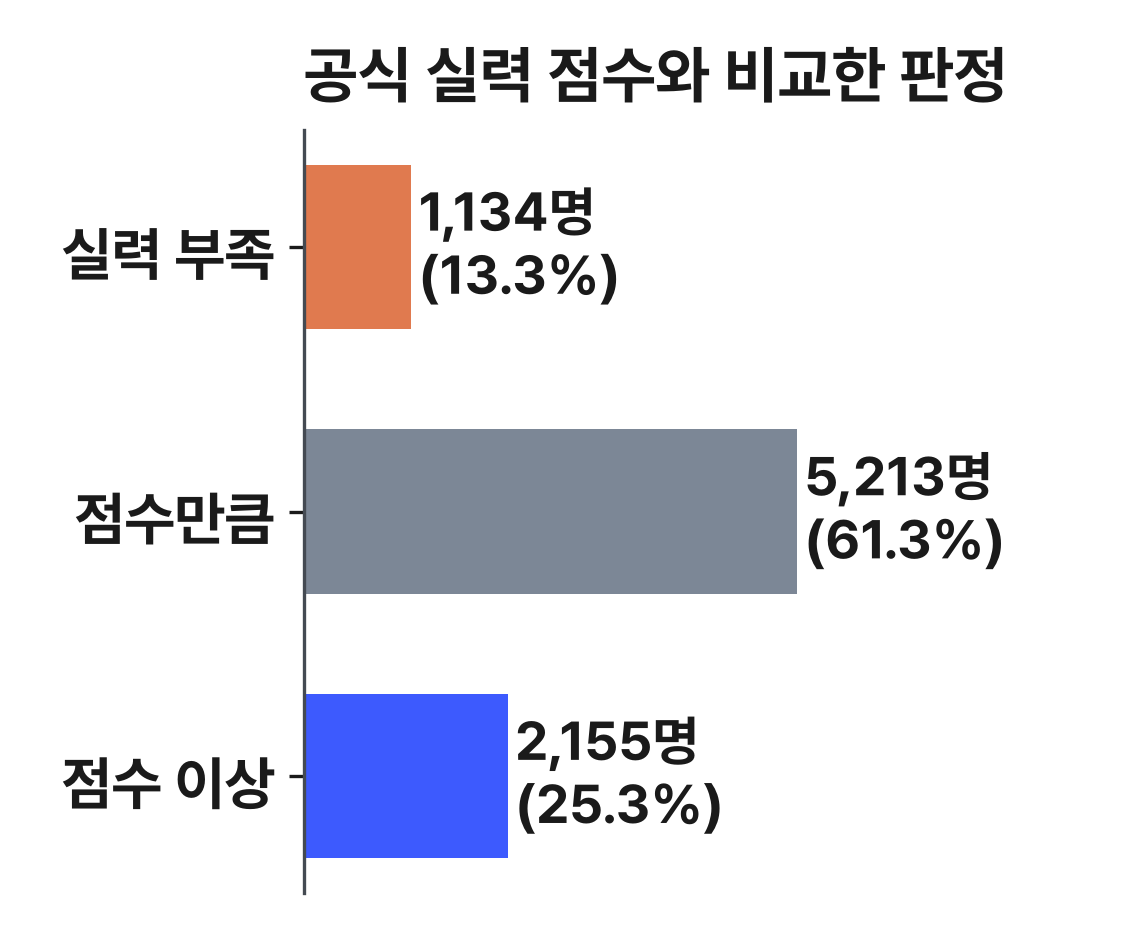
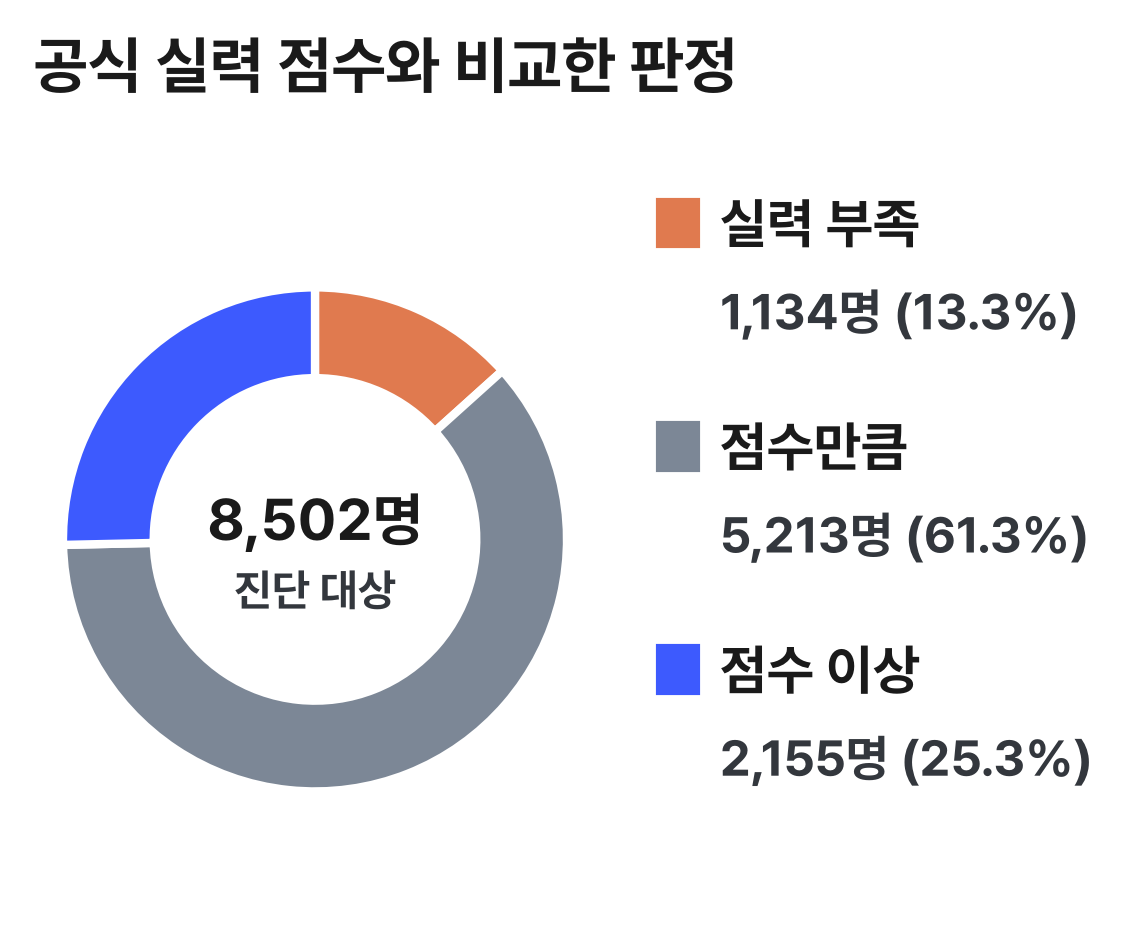
그래프 종류 다양화: 전체 판정은 도넛, 예측 정확도는 화살표 그래프
- fig2: 합이 8,502명인 '전체 중 비율'이라 가로 막대 → 도넛 (가운데 진단 대상 수)
- fig4: '이전 → 이후'가 핵심이라 세로 막대 → 점·화살표 (세로축 0.68부터 시작하던 문제도 없어짐)
- README 설명 수정

diff --git a/make_figures.py b/make_figures.py
@@ -3,7 +3,7 @@
 그림 크기(인치)를 슬라이드에 넣는 크기와 같게 맞춰, 글자 크기(pt)가 슬라이드에서도 그대로 보이게 함"""
 import sys, os, glob
 from pathlib import Path
-import matplotlib, matplotlib.ticker
+import matplotlib, matplotlib.ticker, matplotlib.patches
 matplotlib.use("Agg")
 import matplotlib.pyplot as plt
 from matplotlib import font_manager
@@ -57,16 +57,20 @@ fig.add_artist(con)
 fig.text(0.50, 0.63, "펼쳐 보면", ha="center", fontsize=14, color=ORANGE)
 fig.savefig(OUT / "fig1_문제제기_정답률과_공식실력점수.png"); plt.close(fig)
 
-# ---------- 그림 2 (03 분석 결과): 전체 판정 — 공식 실력 점수와 비교
+# ---------- 그림 2 (03 분석 결과): 전체 판정 — 공식 실력 점수와 비교 (합이 8,502명인 '전체 중 비율'이라 도넛)
 J = D["전체 판정"].value_counts()
 order = [("실력 부족", "실력 부족", ORANGE), ("레이팅 수준", "점수만큼", MID), ("레이팅 이상", "점수 이상", BLUE)]
 vals = [int(J[k]) for k, _, _ in order]; assert sum(vals) == len(D); check["그림2 합"] = sum(vals)
-fig, ax = plt.subplots(figsize=(3.75, 3.1))
-ax.barh([n for _, n, _ in order][::-1], vals[::-1], color=[c for *_, c in order][::-1], height=0.62)
-for i, v in enumerate(vals[::-1]): ax.text(v + 80, i, f"{v:,}명\n({v / sum(vals):.1%})", va="center", fontsize=13, linespacing=1.0)
-ax.set_xlim(0, max(vals) * 1.62); ax.set_xticks([]); ax.spines["bottom"].set_visible(False); ax.tick_params(axis="y", labelsize=14)
-ax.set_title("공식 실력 점수와 비교한 판정", fontsize=15, loc="left", pad=8)
-fig.subplots_adjust(left=0.27, right=0.98, top=0.86, bottom=0.04); fig.savefig(OUT / "fig2_전체판정.png"); plt.close(fig)
+fig = plt.figure(figsize=(3.75, 3.1))
+ax = fig.add_axes([0.0, 0.02, 0.56, 0.80])
+ax.pie(vals, colors=[c for *_, c in order], startangle=90, counterclock=False, wedgeprops=dict(width=0.36, edgecolor="white", linewidth=2))
+ax.text(0, 0.08, f"{sum(vals):,}명", ha="center", va="center", fontsize=14); ax.text(0, -0.2, "진단 대상", ha="center", va="center", fontsize=10.5, color=SUB)
+for i, ((_, n, c), v) in enumerate(zip(order, vals)):
+    y = 0.70 - i * 0.24
+    fig.patches.append(matplotlib.patches.Rectangle((0.585, y + 0.035), 0.035, 0.05, color=c, transform=fig.transFigure, figure=fig))
+    fig.text(0.64, y + 0.06, n, fontsize=13, va="center"); fig.text(0.64, y - 0.035, f"{v:,}명 ({v / sum(vals):.1%})", fontsize=12, va="center", color=SUB)
+fig.text(0.03, 0.93, "공식 실력 점수와 비교한 판정", fontsize=15, fontweight="bold", va="center")
+fig.savefig(OUT / "fig2_전체판정.png"); plt.close(fig)
 
 # ---------- 그림 3 (03 분석 결과): 고른 약한 분야가 다음 기간에도 약했던 비율
 v2 = pd.read_csv(o / "step6_①같은개수.csv", index_col=0)["C에서도 기대 이하(적중률)"] * 100
@@ -78,19 +82,24 @@ ax.set_title("약한 분야가 다음 기간에도 약함", fontsize=15, loc="le
 fig.subplots_adjust(left=0.03, right=0.98, top=0.86, bottom=0.2); fig.savefig(OUT / "fig3_약한분야_적중률.png"); plt.close(fig)
 check["그림3"] = [round(x, 1) for x in v2.values]
 
-# ---------- 그림 4 (03 분석 결과): 다음 기간 정답 예측 정확도(AUC)
+# ---------- 그림 4 (03 분석 결과): 다음 기간 정답 예측 정확도(AUC) — '이전 → 이후'가 핵심이라 점 두 개를 화살표로 이음
 v3 = pd.read_csv(o / "step6_②예측.csv", index_col=0)["AUC"]; v4 = pd.read_csv(o / "step6_③레이팅.csv", index_col=0)["AUC"]
-bars = [("공식 실력\n점수", v4.iloc[1], MID), ("평소 실력\n점수", v4.iloc[0], NAVY), ("공식\n점수만", v3.iloc[0], MID), ("+ 진단\n결과", v3.iloc[1], NAVY)]
+rows = [("실력 점수 바꾸기", "공식 실력 점수", v4.iloc[1], "평소 실력 점수", v4.iloc[0]),
+        ("진단 결과 더하기", "공식 점수만", v3.iloc[0], "+ 진단 결과", v3.iloc[1])]
 fig, ax = plt.subplots(figsize=(3.75, 3.1))
-xs = [0, 1, 2.5, 3.5]
-ax.bar(xs, [b[1] for b in bars], color=[b[2] for b in bars], width=0.8)
-for x, b in zip(xs, bars): ax.text(x, b[1] + 0.0015, f"{b[1]:.3f}", ha="center", fontsize=13)
-ax.set_xticks(xs, [b[0] for b in bars], fontsize=12); ax.set_ylim(0.68, 0.762); ax.set_yticks([])
+for i, (ttl, l0, a0, l1, a1) in enumerate(rows):
+    y = 1 - i
+    ax.annotate("", xy=(a1, y), xytext=(a0, y), arrowprops=dict(arrowstyle="-|>,head_length=0.7,head_width=0.4", color=NAVY, lw=2.6, shrinkA=7, shrinkB=7))
+    ax.scatter([a0], [y], s=110, color=MID, zorder=3); ax.scatter([a1], [y], s=130, color=NAVY, zorder=3)
+    ax.text(a0 - 0.0018, y, f"{l0}\n{a0:.3f}", ha="right", va="center", fontsize=11.5, color=SUB, linespacing=1.15)
+    ax.text(a1 + 0.0018, y, f"{l1}\n{a1:.3f}", ha="left", va="center", fontsize=11.5, color=NAVY, linespacing=1.15)
+    ax.text(0.697, y + 0.36, ttl, fontsize=12.5, va="bottom")
+ax.set_xlim(0.695, 0.768); ax.set_ylim(-0.45, 1.62); ax.set_yticks([])
+ax.set_xticks([0.70, 0.72, 0.74, 0.76]); ax.tick_params(axis="x", labelsize=11)
 ax.spines["left"].set_visible(False)
-ax.text(0.0, 0.97, "세로축 0.68부터", transform=ax.transAxes, fontsize=10.5, color=SUB, va="top")
 ax.set_title("다음 기간 정답 예측 정확도(AUC)", fontsize=15, loc="left", pad=8)
-fig.subplots_adjust(left=0.03, right=0.98, top=0.86, bottom=0.2); fig.savefig(OUT / "fig4_예측정확도_AUC.png"); plt.close(fig)
-check["그림4"] = [round(b[1], 3) for b in bars]
+fig.subplots_adjust(left=0.03, right=0.97, top=0.86, bottom=0.11); fig.savefig(OUT / "fig4_예측정확도_AUC.png"); plt.close(fig)
+check["그림4"] = [round(r[2], 3) for r in rows] + [round(r[4], 3) for r in rows]
 
 # ---------- 그림 5 (03 분석 결과): K-means 학습 유형 — 지표 9개를 '유형이 가장 잘 나뉘는 2개 축'(선형 판별 분석, LDA)으로 요약해
 #            학습자마다 점 1개, 유형마다 도형을 다르게. (PCA 2개 축은 정보의 48%만 담고 CE 비율이 거의 안 실려 문법형이 흩어져 보였음)

diff --git a/README.md b/README.md
@@ -25,9 +25,9 @@ algofit_figures/
 | 그림 | 내용 | 확인한 숫자 |
 |---|---|---|
 | fig1 | 정답률 구간별 학습자 수(왼쪽)와, 그중 정답률 95% 이상인 학습자를 펼쳐 본 공식 실력 점수 분포(오른쪽). 95% 이상 막대와 오른쪽 그래프를 같은 주황색과 화살표로 연결함 | 왼쪽 막대 합 8,502명, 오른쪽 막대 합 4,081명, 정답률 90% 이상 79.3%, 점수 범위 360~3,803점 |
-| fig2 | 공식 실력 점수와 비교한 전체 판정 | 실력 부족 1,134 / 점수만큼 5,213 / 점수 이상 2,155 (합 8,502명) |
+| fig2 | 공식 실력 점수와 비교한 전체 판정 (합이 전체 인원이라 도넛으로 표시) | 실력 부족 1,134 / 점수만큼 5,213 / 점수 이상 2,155 (합 8,502명) |
 | fig3 | 고른 약한 분야가 다음 기간에도 약했던 비율 | 우리 진단 42.8%, 정답률 낮은 순 43.0%, 무작위 35.1% |
-| fig4 | 다음 기간 정답 예측 정확도(AUC). 세로축은 0.68부터 시작함 | 공식 실력 점수 0.722, 평소 실력 점수 0.743, 공식 점수만 0.723, 진단 추가 0.732 |
+| fig4 | 다음 기간 정답 예측 정확도(AUC). '이전 → 이후'를 점과 화살표로 표시함 (가로축 0.695~0.768) | 공식 실력 점수 0.722, 평소 실력 점수 0.743, 공식 점수만 0.723, 진단 추가 0.732 |
 | fig5 | 풀이 습관 지표 9개를 '유형이 가장 잘 나뉘는 2개 축'(선형 판별 분석, LDA)으로 요약해 학습자를 점 하나로 표시함. 유형마다 도형을 다르게 함(● ▲ ■ ◆). 큰 도형은 각 묶음의 평균 위치이고, 학습자 2,000명을 무작위로 골라 표시함. 그리기 전에 모든 학습자가 가장 가까운 K-means 중심의 유형과 같은지 확인함(assert) | 로직 점검형 3,788 / 도전적 시행착오형 2,402 / 효율 개선 필요형 1,606 / 문법 실수·빠른 재제출형 706명 |
 
 그래프 크기(인치)를 슬라이드에 넣는 크기와 같게 정했습니다. 그래서 코드에 적은 글자 크기(pt)가 슬라이드에서도 그대로 보입니다.
